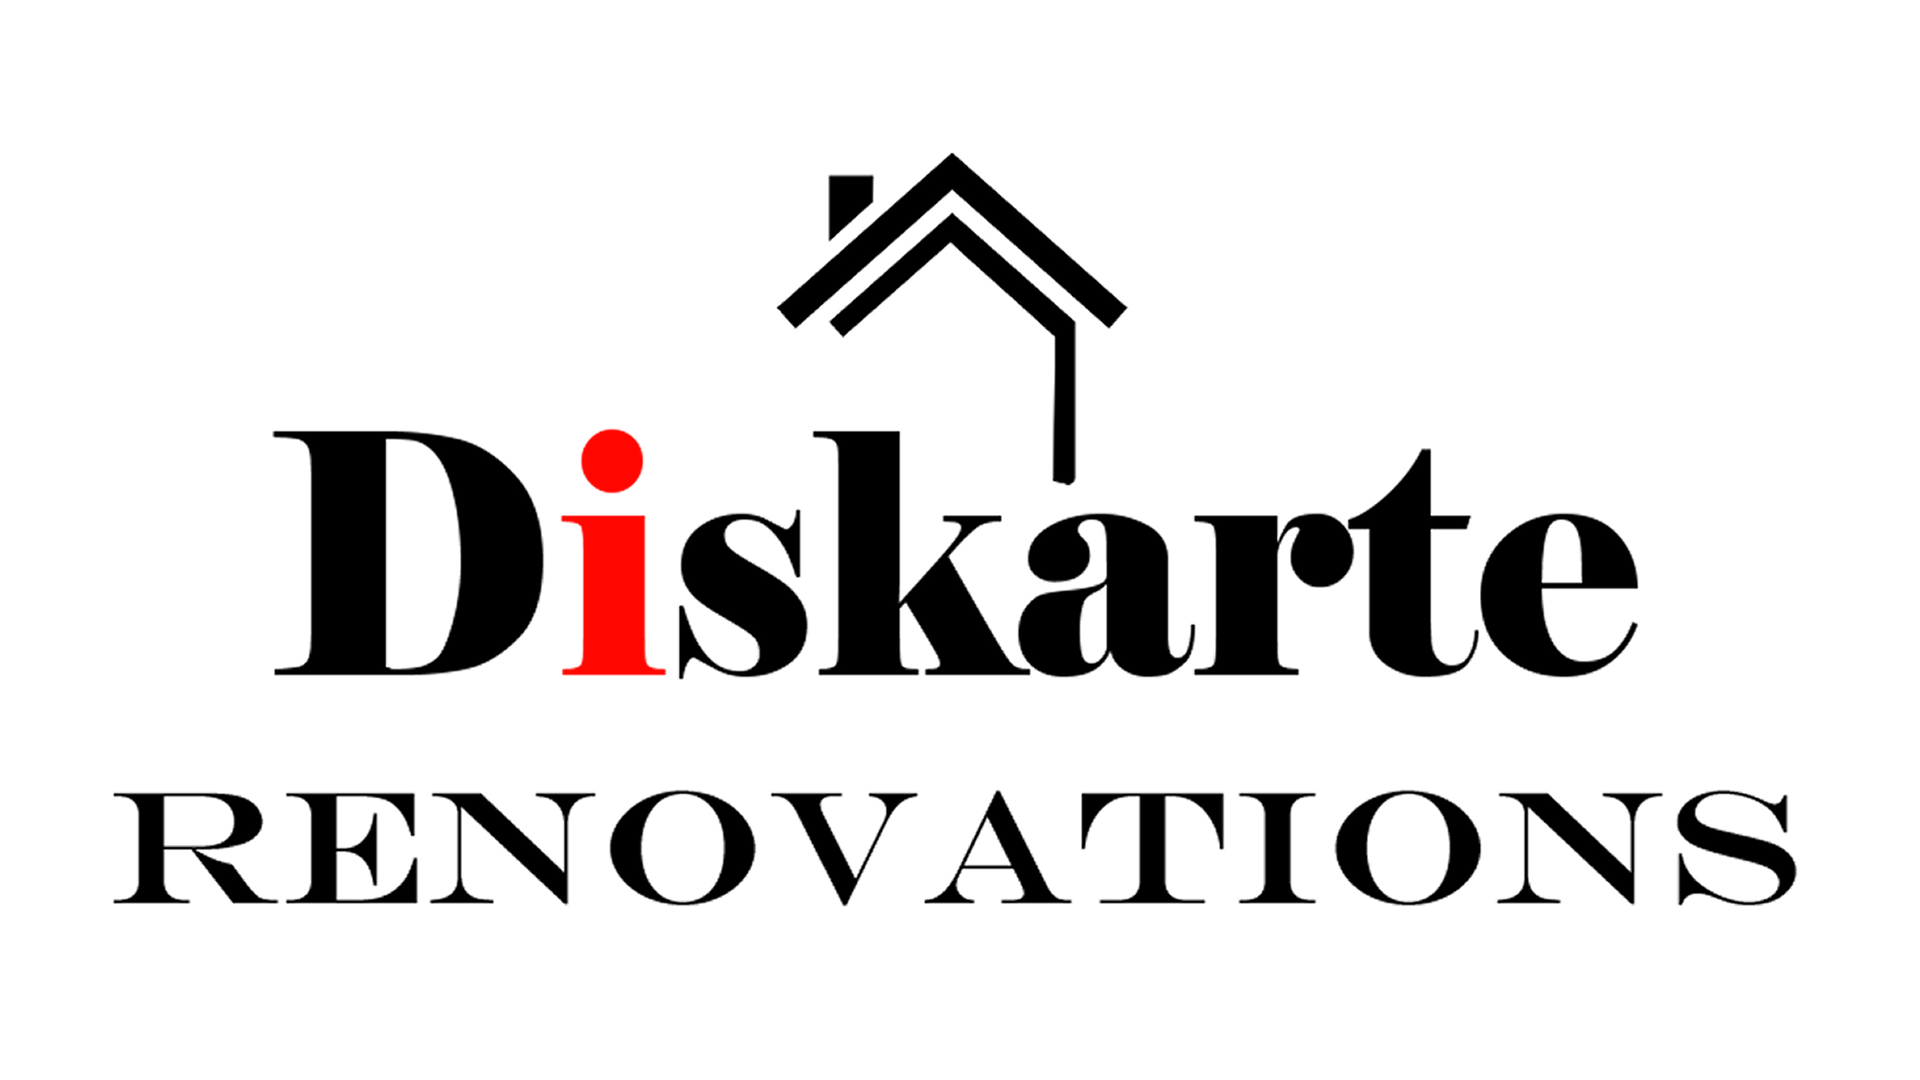
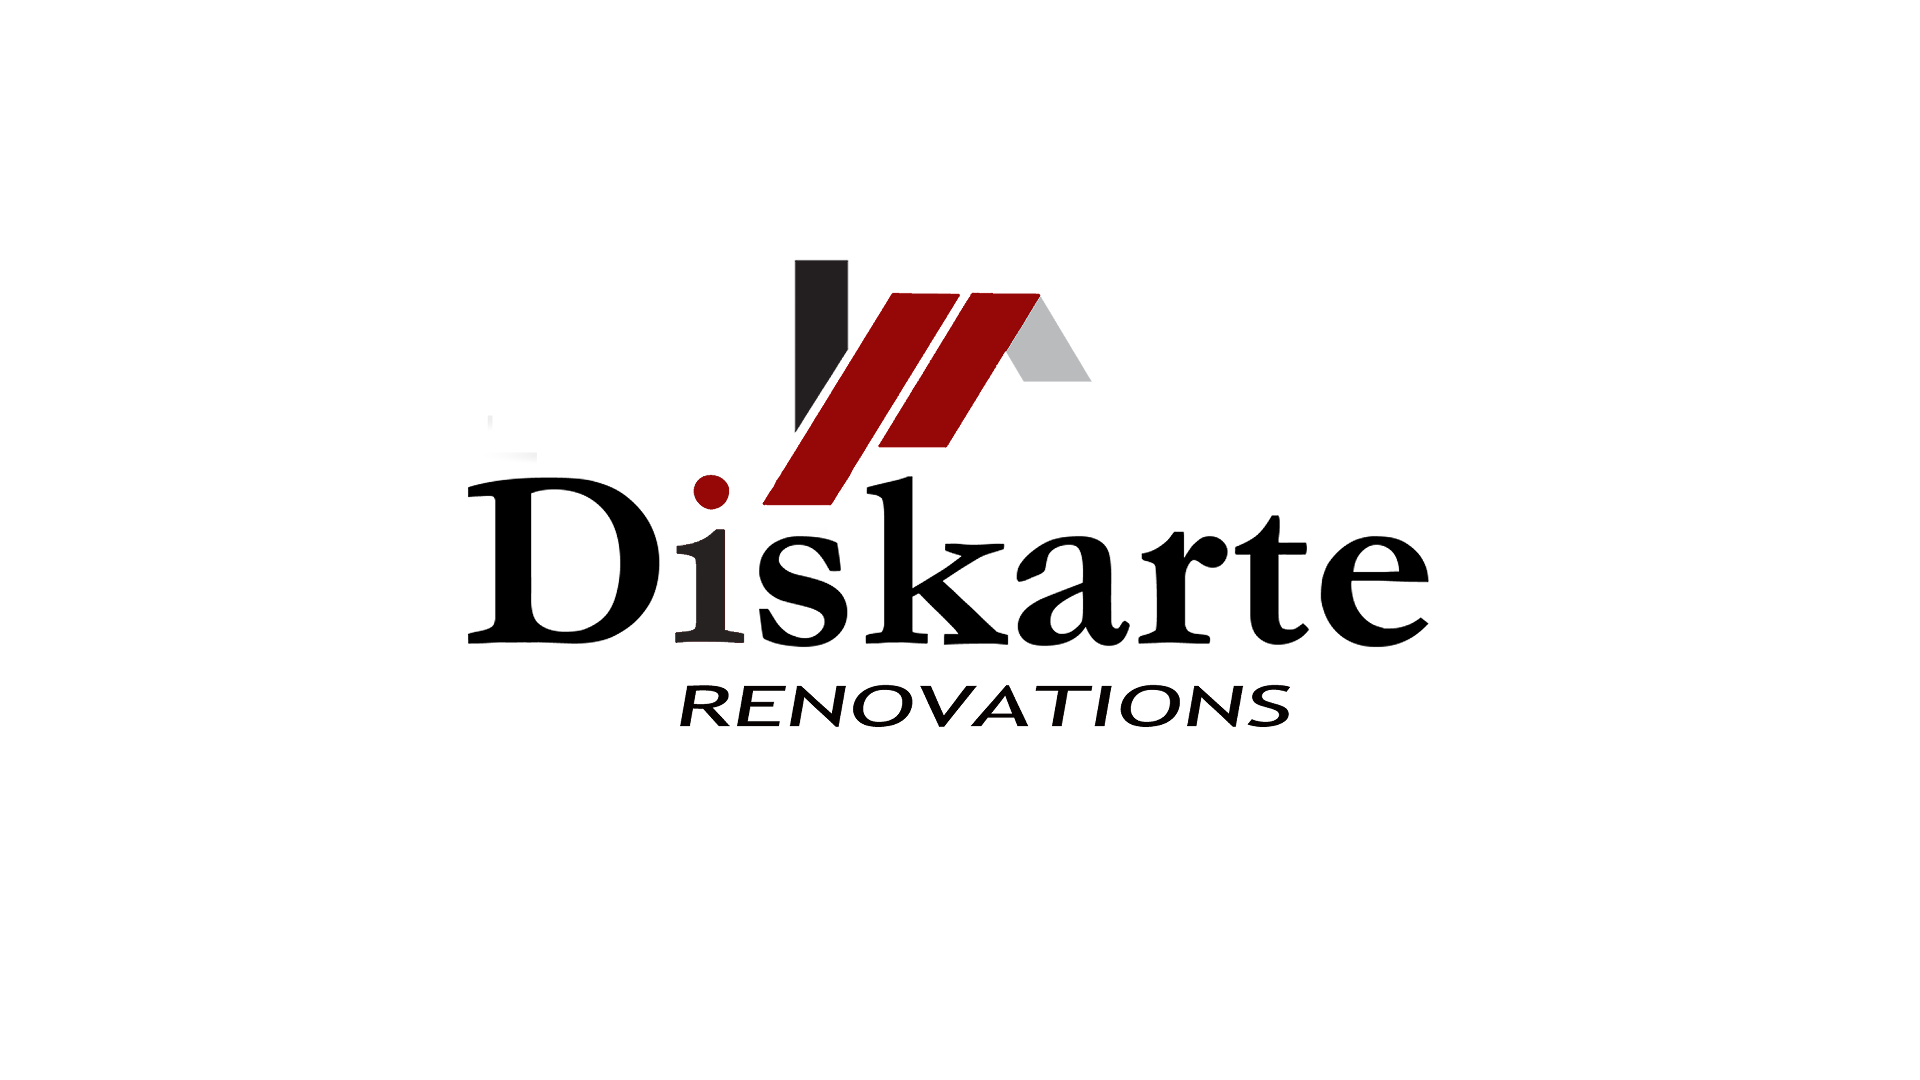
Testing preview image size

diff --git a/index.html b/index.html
@@ -6,7 +6,7 @@
   <meta property="og:url" content="https://www.diskarte.ca">
   <meta property="og:type" content="website">
   <meta property="og:title" content="Diskarte Renovations">
-  <meta property="og:image" content="https://www.diskarte.ca/images/diskarte_solid.png">
+  <meta property="og:image" content="https://www.diskarte.ca/images/diskarte.png">
   <meta property="og:description" content="We do roofing, deck and fences, and interior renvovations. Serving Kingston and the Surrounding Area.">
   <meta name="description" content="We do roofing, deck and fences, and interior renvovations. Serving Kingston and the Surrounding Area.">
   <meta name="keywords" content="Roofing, Deck and Fences, Interior Renovations">
